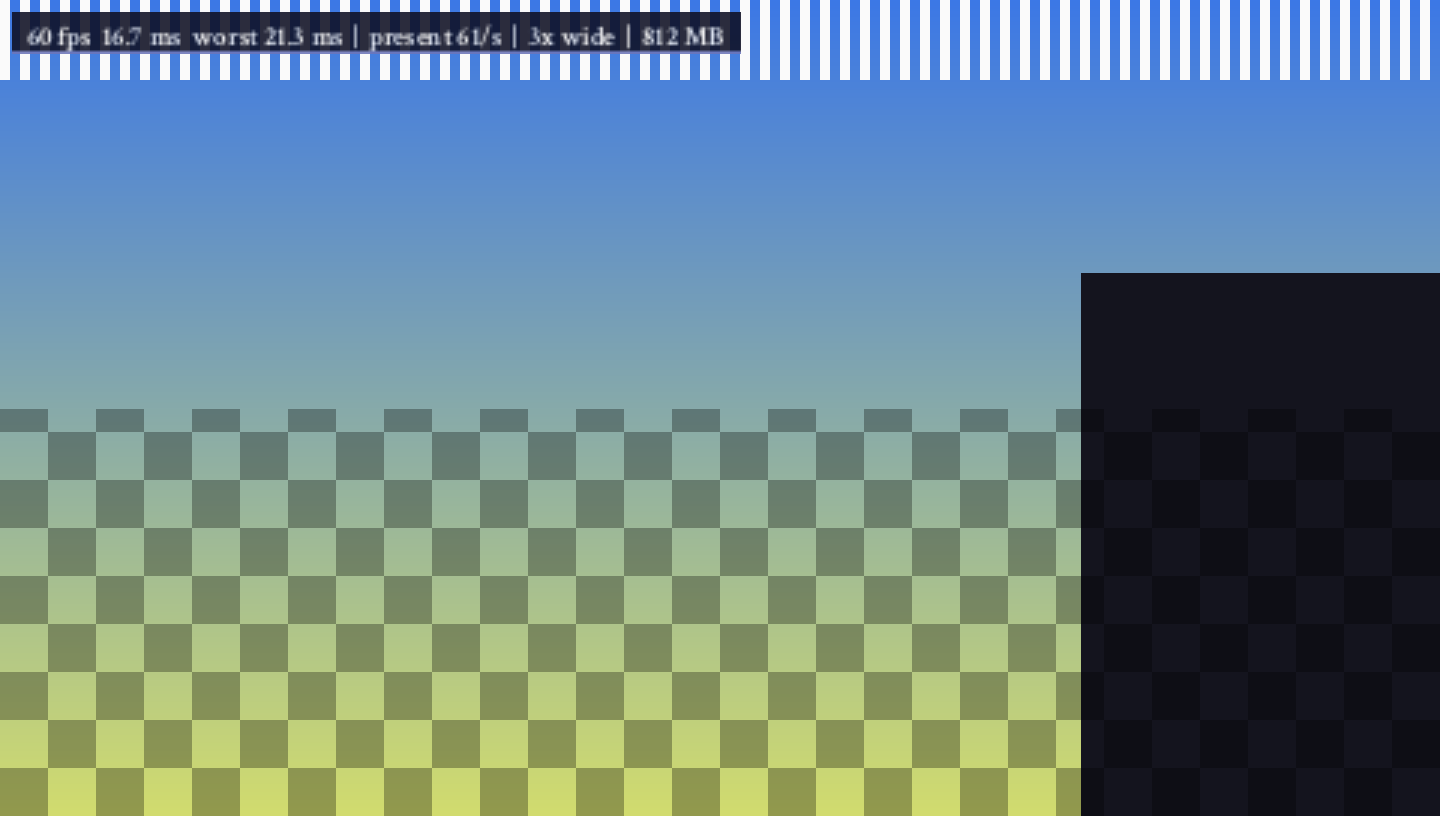
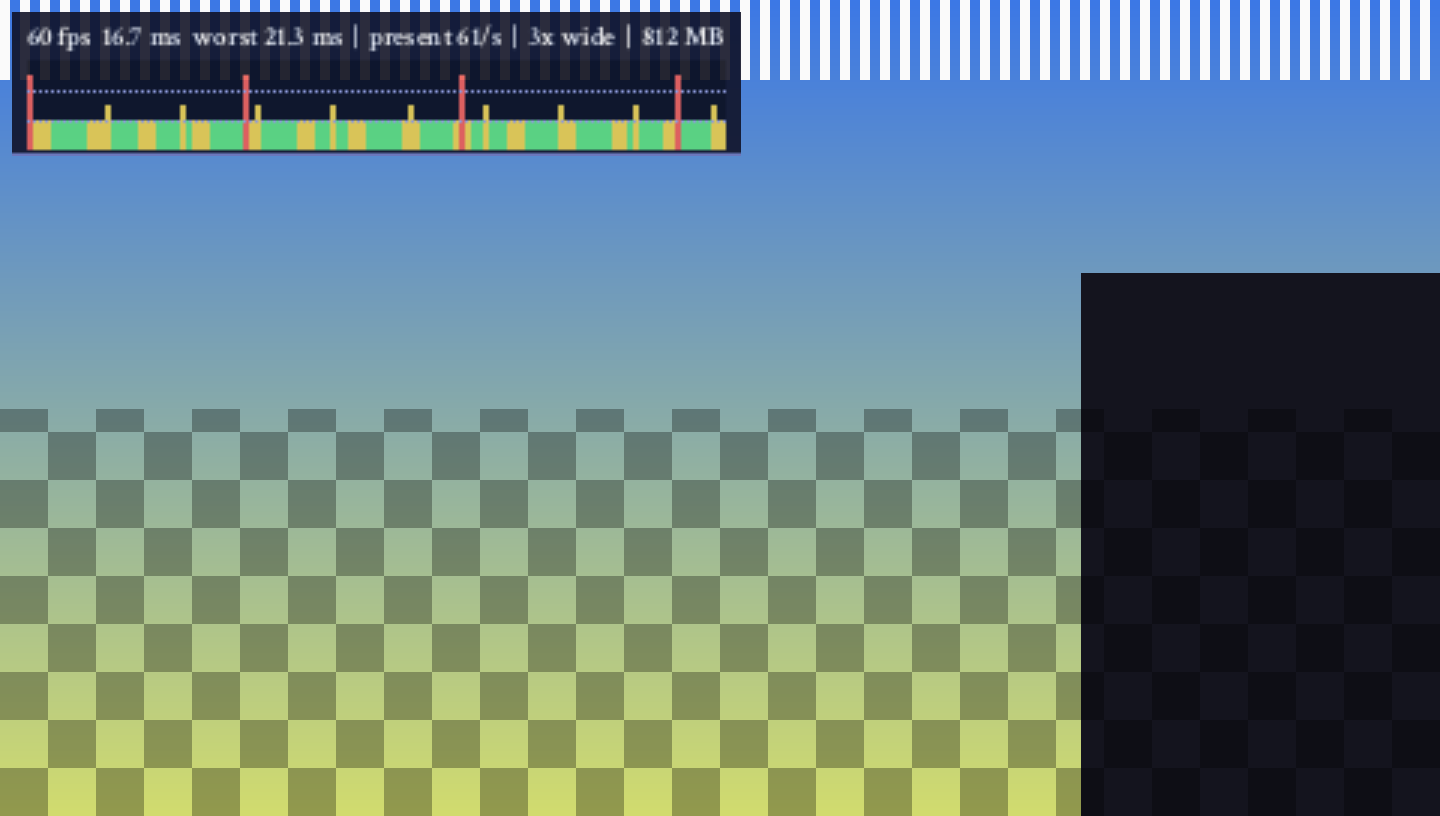
Add frame-time graph to the performance overlay
Claude-Session: https://claude.ai/code/session_013sMvMRHBwb73MSEYry6Rtv

Changed region(s): [[0.0, 0.0613, 0.5312, 0.2145]]

diff --git a/psprecomp/runtime/src/psp_ge_draw.cpp b/psprecomp/runtime/src/psp_ge_draw.cpp
@@ -3653,6 +3653,10 @@ struct PerfHud {
     std::chrono::steady_clock::time_point last{}, win0{};
     int frames = 0, presents = 0;
     double sum_ms = 0, worst_ms = 0;
+    static constexpr int kGraph = 120;   // frame times shown in the debug overlay's graph (oldest first)
+    float graph[kGraph] = {};
+    int graph_n = 0;
+    std::chrono::steady_clock::time_point graph_drawn{};
     std::string text;       // performance overlay line
     std::string fps_text;   // fps counter
     bool dirty = false, fps_dirty = false;
@@ -3699,6 +3703,12 @@ static void perf_note_flip() {
     g_perf.frames++;
     g_perf.sum_ms += ms;
     g_perf.worst_ms = std::max(g_perf.worst_ms, ms);
+    if (g_perf_hud.load(std::memory_order_relaxed)) {
+        if (g_perf.graph_n == PerfHud::kGraph) std::memmove(g_perf.graph, g_perf.graph + 1, (PerfHud::kGraph - 1) * sizeof(float));
+        else g_perf.graph_n++;
+        g_perf.graph[g_perf.graph_n - 1] = float(ms);
+        if (now - g_perf.graph_drawn >= milliseconds(50)) { g_perf.graph_drawn = now; g_perf.dirty = true; }   // ~20 redraws/s
+    }
     const double win = duration<double, std::milli>(now - g_perf.win0).count();
     if (win >= 500.0 && g_perf.frames > 0) {
         const double fps = g_perf.frames * 1000.0 / win;
@@ -3937,7 +3947,8 @@ static void present_toast(const PresentRect& pr) {
 // own tiny program (GL state saved and restored, like the touch controls). `box` = the performance overlay's dark box
 // (top-left), otherwise the bare number with a soft shadow (top-right). `alpha` is the overall opacity.
 struct HudBlend { GLuint tex = 0; int tw = 0, th = 0, tscale = 0, alloc_w = 0, alloc_h = 0; std::vector<uint32_t> px; };
-static void present_blend_hud(HudBlend& st, const std::string& text, bool& text_dirty, bool box, float alpha, const PresentRect& pr) {
+static void present_blend_hud(HudBlend& st, const std::string& text, bool& text_dirty, bool box, float alpha, const PresentRect& pr,
+                              const float* graph = nullptr, int graph_n = 0) {
     if (text.empty()) return;
     static GLuint prog = 0, vao = 0, vbo = 0;
     static GLint u_tex = -1, u_alpha = -1;
@@ -3997,7 +4008,7 @@ static void present_blend_hud(HudBlend& st, const std::string& text, bool& text_
     glGetIntegerv(GL_TEXTURE_BINDING_2D, &prev_tex);
     if (text_dirty || scale != tscale || !tex) {
         int w = 0, h = 0;
-        const bool ok = box ? psp_sddialog::render_hud_box(text, scale, px, &w, &h)
+        const bool ok = box ? psp_sddialog::render_hud_box(text, scale, px, &w, &h, graph, graph_n)
                             : psp_sddialog::render_hud_text(text, scale, px, &w, &h);
         if (!ok || w <= 0 || h <= 0) {
             glActiveTexture(GLenum(prev_active));
@@ -4101,7 +4112,7 @@ static void present_fps_counter(const PresentRect& pr) {
 static void present_perf_hud(const PresentRect& pr) {
     static HudBlend st;
     if (!g_perf_hud.load(std::memory_order_relaxed)) return;
-    present_blend_hud(st, g_perf.text, g_perf.dirty, true, 0.65f, pr);
+    present_blend_hud(st, g_perf.text, g_perf.dirty, true, 0.65f, pr, g_perf.graph, g_perf.graph_n);
 }
 
 

diff --git a/psprecomp/runtime/src/hle/psp_savedata_dialog.cpp b/psprecomp/runtime/src/hle/psp_savedata_dialog.cpp
@@ -1697,7 +1697,8 @@ void KeyboardDialog::render(Canvas& c) const {
     }
 }
 
-bool render_hud_box(const std::string& text, int scale, std::vector<uint32_t>& out, int* w, int* h) {
+bool render_hud_box(const std::string& text, int scale, std::vector<uint32_t>& out, int* w, int* h,
+                    const float* graph_ms, int graph_n) {
     static FT_Library lib = nullptr;
     static FT_Face face = nullptr;
     static std::once_flag once;
@@ -1709,11 +1710,35 @@ bool render_hud_box(const std::string& text, int scale, std::vector<uint32_t>& o
     Canvas c(scale);
     c.clear(Canvas::rgba(14, 16, 36));
     Painter P(c);
-    const float size = 9.f, pad = 5.f, bh = 14.f;
+    const float size = 9.f, pad = 5.f, text_h = 14.f;
+    const bool graph = graph_ms && graph_n > 1;
+    const float graph_h = graph ? 30.f : 0.f, bh = text_h + (graph ? graph_h + 4.f : 0.f);
     const float tw = P.text_width(face, size, text);
     const float bw = std::min(float(SCREEN_W) - 8.f, std::ceil(tw + 2.f * pad));
     P.hline(0.f, bw, bh - 0.5f, 1.f, rgb(120, 128, 200, 0.9f));   // thin accent line along the bottom edge
     P.text(face, size, pad, 10.5f, text, rgb(255, 255, 255));
+    if (graph) {
+        // Frame-time graph, newest sample on the right: one bar per flip, 0..50 ms top to bottom-up, green up to
+        // 16.7 ms, yellow up to 33.3 ms, red above. Guide lines at 16.7 and 33.3 ms.
+        constexpr float kMax = 50.f;
+        const int gx0 = int(std::lround(pad * float(c.scale))), gx1 = int(std::floor((bw - pad) * float(c.scale)));
+        const int gy1 = int(std::lround((text_h + 2.f + graph_h) * float(c.scale))), gh = int(std::lround(graph_h * float(c.scale)));
+        auto px_at = [&](int x, int y) -> uint32_t& { return c.px[size_t(y) * size_t(c.w) + size_t(x)]; };
+        for (int y = gy1 - gh; y < gy1; ++y)
+            for (int x = gx0; x < gx1; ++x) px_at(x, y) = Canvas::rgba(6, 8, 22);
+        const int span = gx1 - gx0;
+        for (int x = 0; x < span; ++x) {
+            const int i = std::min(graph_n - 1, int(int64_t(x) * graph_n / span));   // spread over the width, newest at the right
+            const float ms = std::max(0.f, graph_ms[i]);
+            const int bar = std::min(gh, int(std::lround(ms / kMax * float(gh))));
+            const uint32_t col = ms <= 16.9f ? Canvas::rgba(90, 220, 120) : ms <= 33.5f ? Canvas::rgba(235, 205, 70) : Canvas::rgba(240, 90, 80);
+            for (int y = gy1 - bar; y < gy1; ++y) px_at(gx0 + x, y) = col;
+        }
+        for (float g : {16.7f, 33.3f}) {
+            const int y = gy1 - int(std::lround(g / kMax * float(gh)));
+            for (int x = gx0; x < gx1; x += 2) px_at(x, std::clamp(y, gy1 - gh, gy1 - 1)) = Canvas::rgba(150, 156, 220);
+        }
+    }
     const int pw = std::min(c.w, int(std::ceil(bw * float(c.scale)))), ph = std::min(c.h, int(std::ceil(bh * float(c.scale))));
     out.resize(size_t(pw) * size_t(ph));
     for (int y = 0; y < ph; ++y)

diff --git a/psprecomp/runtime/src/hle/psp_savedata_dialog.h b/psprecomp/runtime/src/hle/psp_savedata_dialog.h
@@ -238,7 +238,9 @@ void osk_push_key(uint32_t cp);   // printable code point; 8 = delete; 13 = done
 // Performance overlay box: `text` in white on a dark box, rendered at `scale`
 // (1..MAX_SCALE) into `out` (w*h, top row first, opaque). Uses its own FreeType
 // instance, so the GL thread can call it while a dialog renders elsewhere.
-bool render_hud_box(const std::string& text, int scale, std::vector<uint32_t>& out, int* w, int* h);
+// With `graph_ms` (graph_n >= 2 frame times in ms, oldest first) a frame-time graph is drawn under the text.
+bool render_hud_box(const std::string& text, int scale, std::vector<uint32_t>& out, int* w, int* h,
+                    const float* graph_ms = nullptr, int graph_n = 0);
 // Same font, but a transparent RGBA image (white text, soft shadow, alpha = coverage) for the simple fps counter.
 bool render_hud_text(const std::string& text, int scale, std::vector<uint32_t>& out, int* w, int* h);
 

diff --git a/psprecomp/games/dissidia/docs/frame-rate.md b/psprecomp/games/dissidia/docs/frame-rate.md
@@ -11,7 +11,8 @@
 - **Debug page**: L / R (shoulder buttons), or Q / E / Tab on a keyboard, switches between System and Debug:
   - Performance Overlay: for debugging. Frames per second, average and worst frame time over the last half second,
     presents per second (a gap to the fps means the presenter runs without new game frames), render scale and process
-    memory (Linux), top-left.
+    memory (Linux), top-left, with a frame-time graph under it (last 120 frames, green up to 16.7 ms, yellow up to
+    33.3 ms, red above).
     Saved (`perf_overlay`); `PSPRECOMP_PERF_HUD=1` turns it on without the menu.
   - FX Shaders: bypasses the `mods/fx_shaders` overrides live ("Not loaded" when none were loaded at start).
     This session only.
